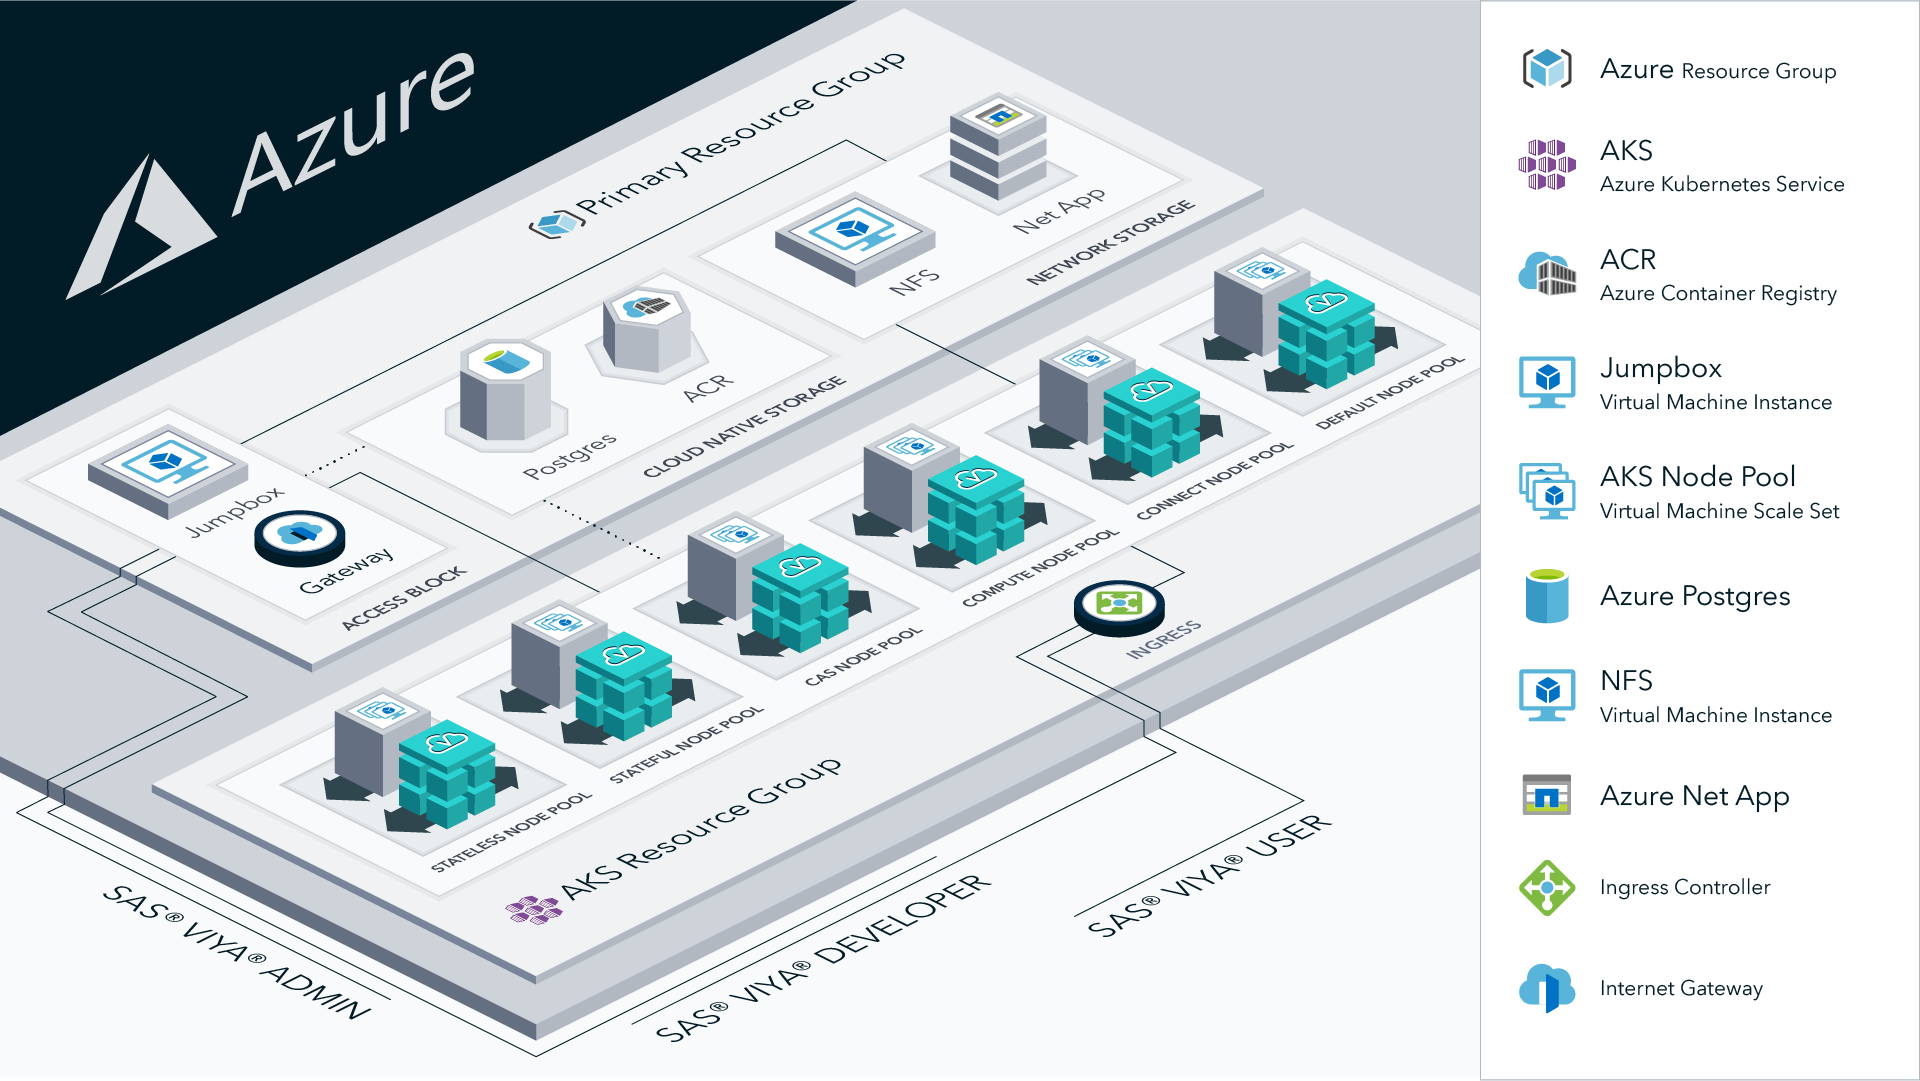
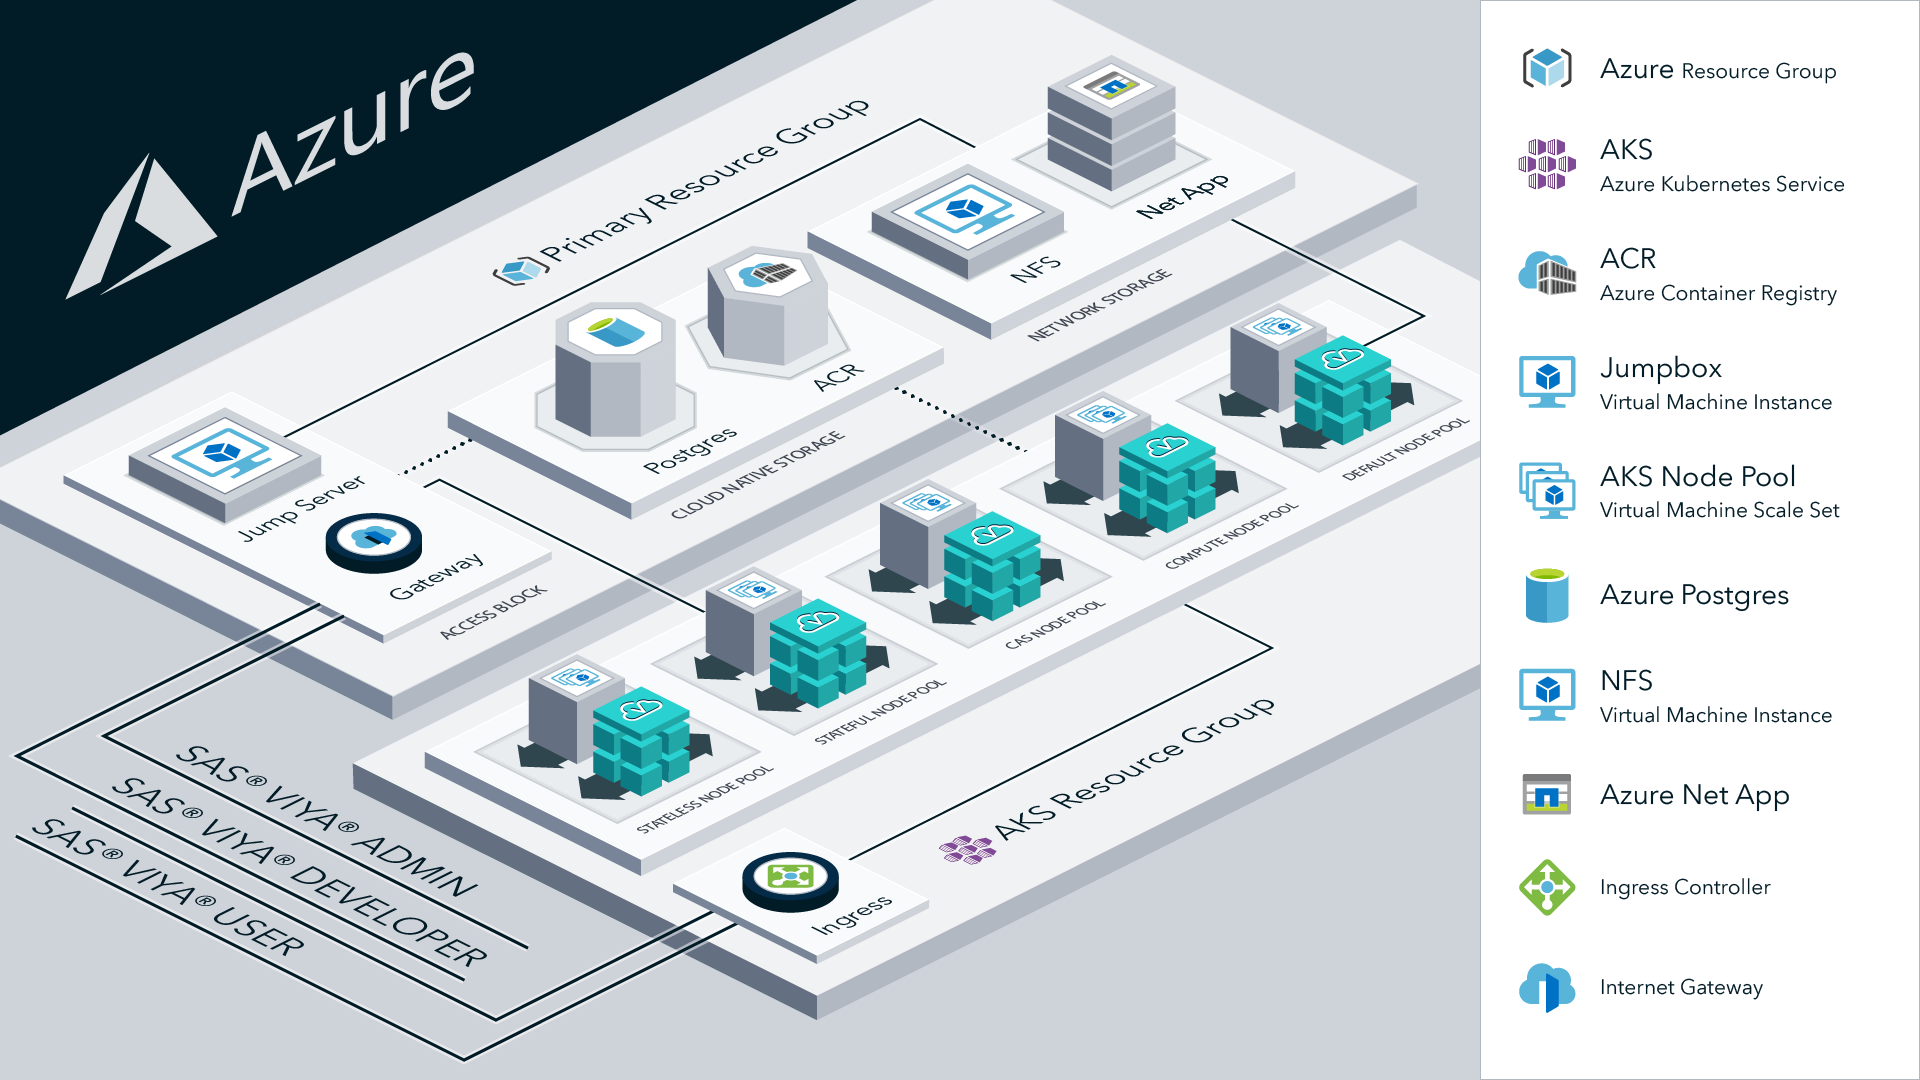
(IAC-503) Remove connect class references from iac-azure (#229)
* (IAC-503) Remove connect class references from iac-azure

* (IAC-503) Updated connect example file name

* New image with the connect node pool removed

diff --git a/docs/CONFIG-VARS.md b/docs/CONFIG-VARS.md
@@ -229,18 +229,6 @@ The default values for the `node_pools` variable are as follows:
       "launcher.sas.com/prepullImage" = "sas-programming-environment"
     }
   },
-  connect = {
-    "machine_type"          = "Standard_E16s_v3"
-    "os_disk_size"          = 200
-    "min_nodes"             = 0
-    "max_nodes"             = 5
-    "max_pods"              = 110
-    "node_taints"           = ["workload.sas.com/class=connect:NoSchedule"]
-    "node_labels" = {
-      "workload.sas.com/class"        = "connect"
-      "launcher.sas.com/prepullImage" = "sas-programming-environment"
-    }
-  },
   stateless = {
     "machine_type"          = "Standard_D16s_v3"
     "os_disk_size"          = 200
